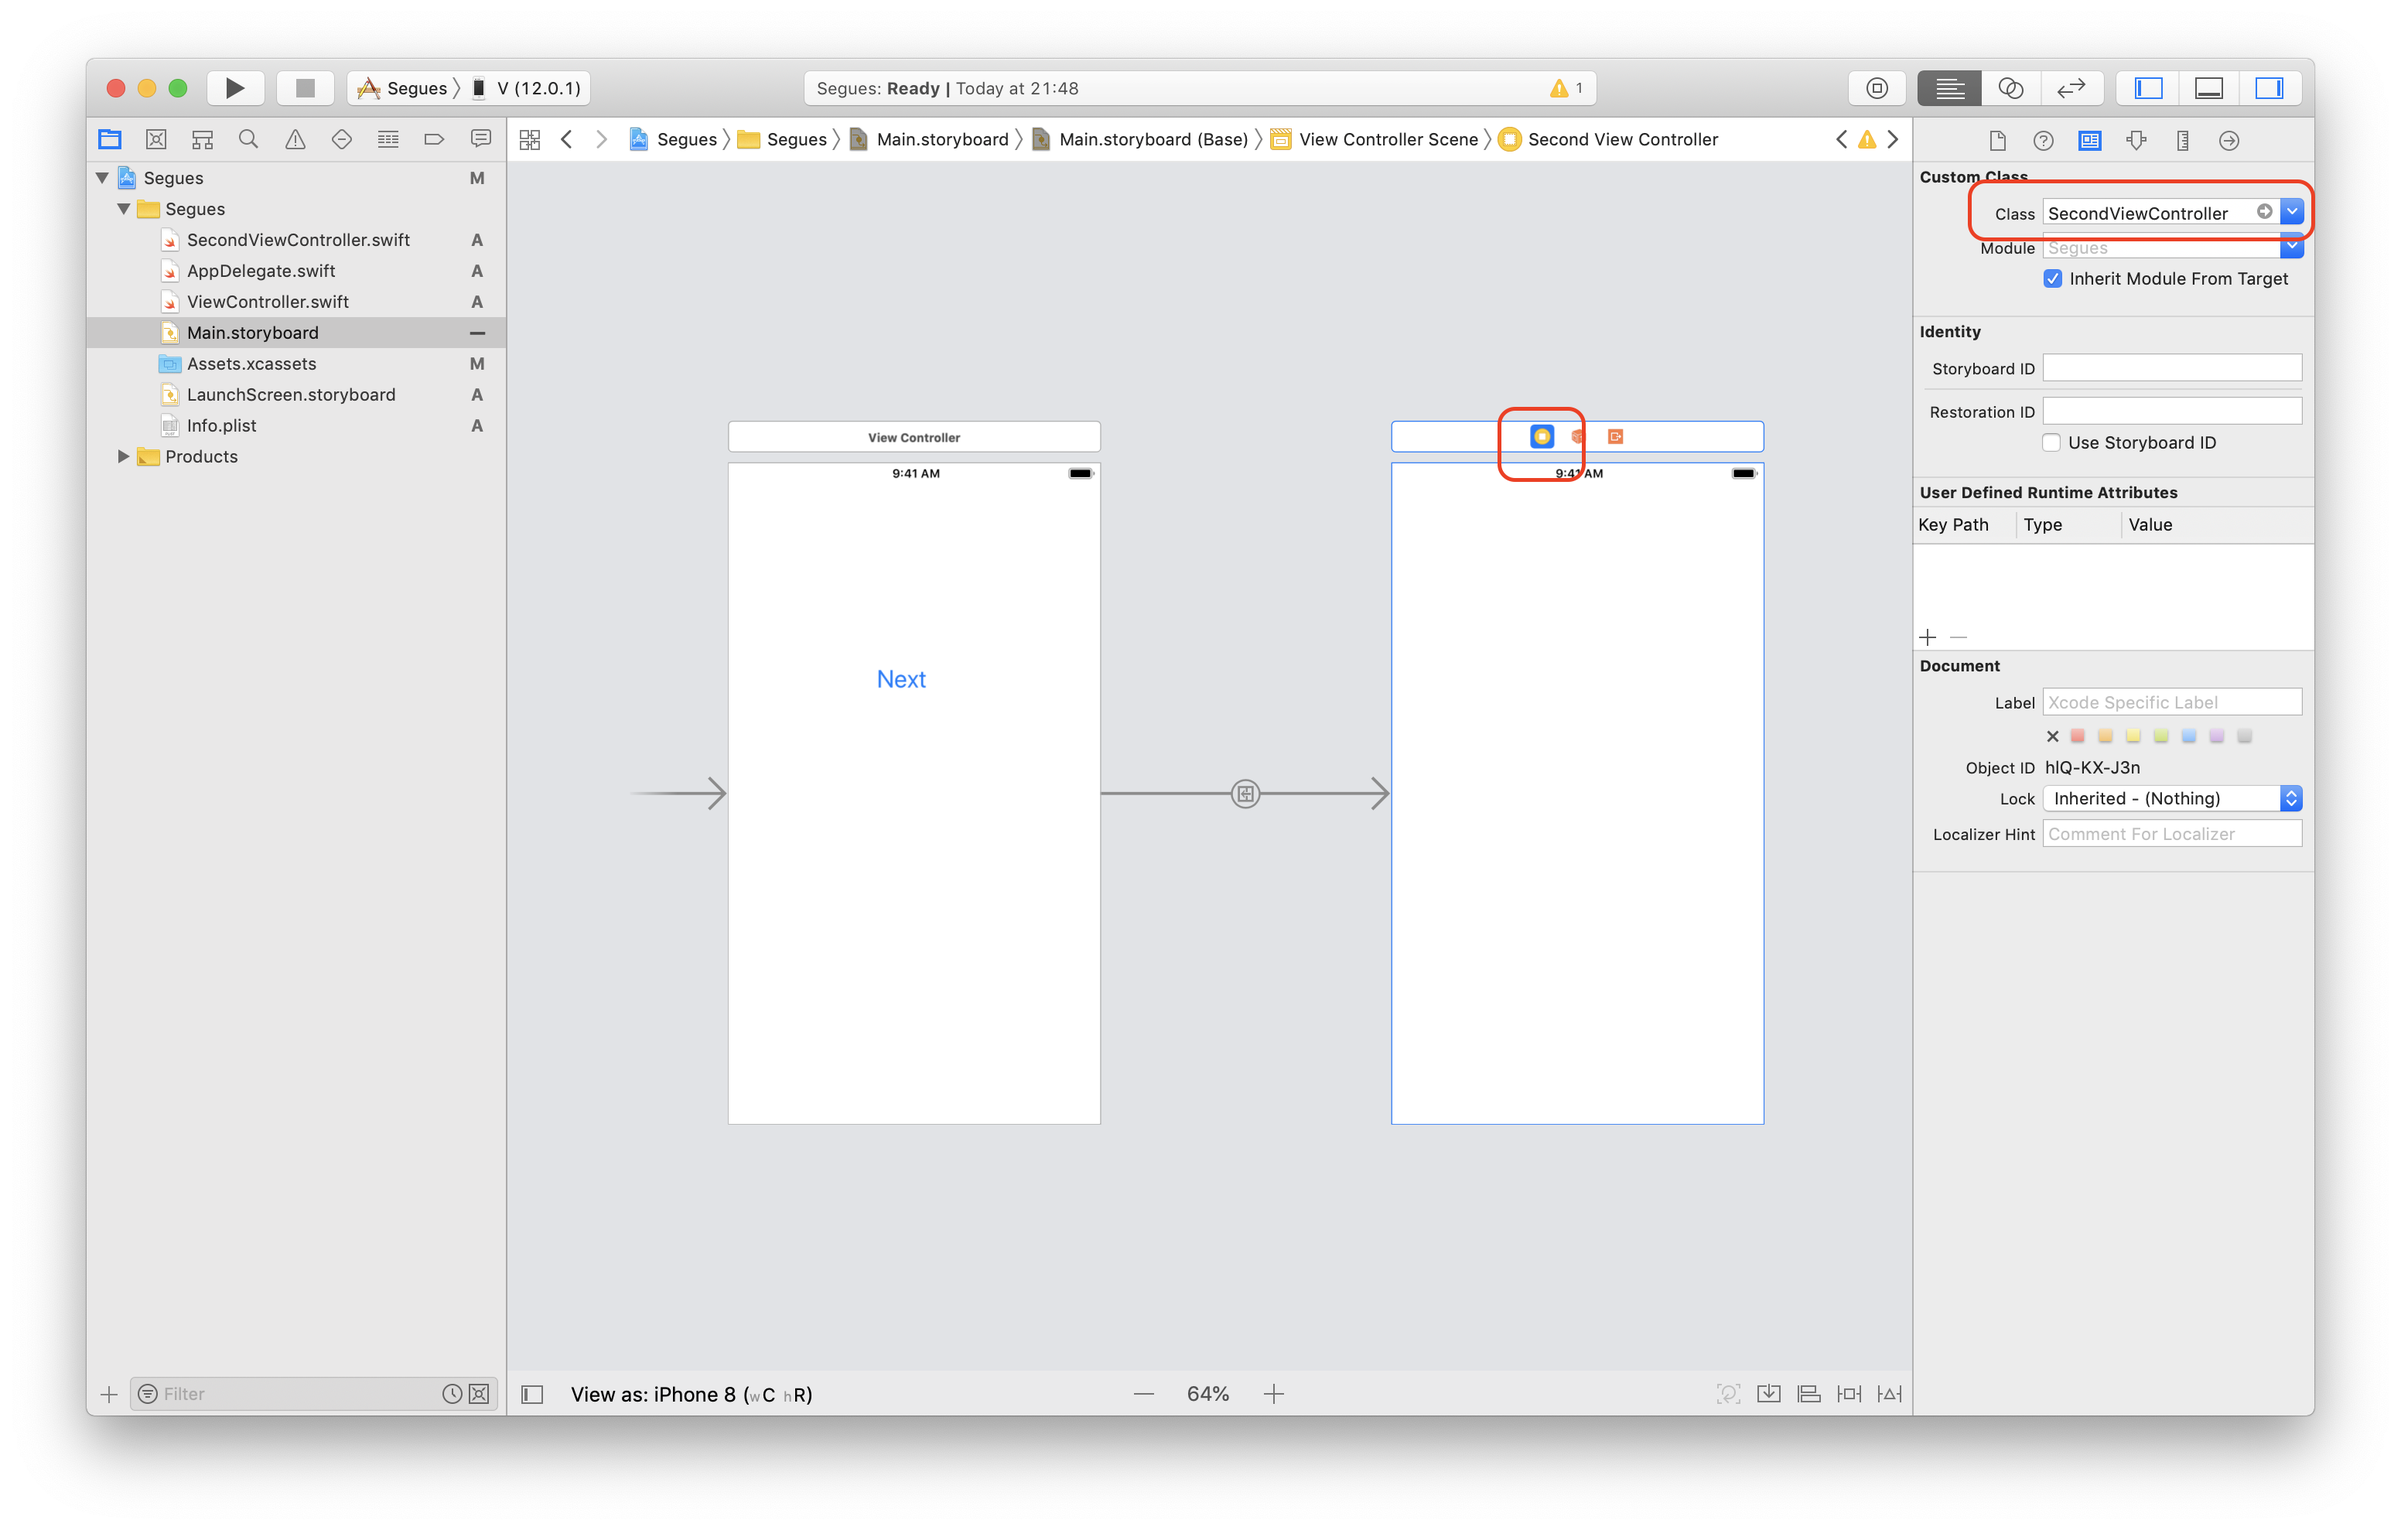
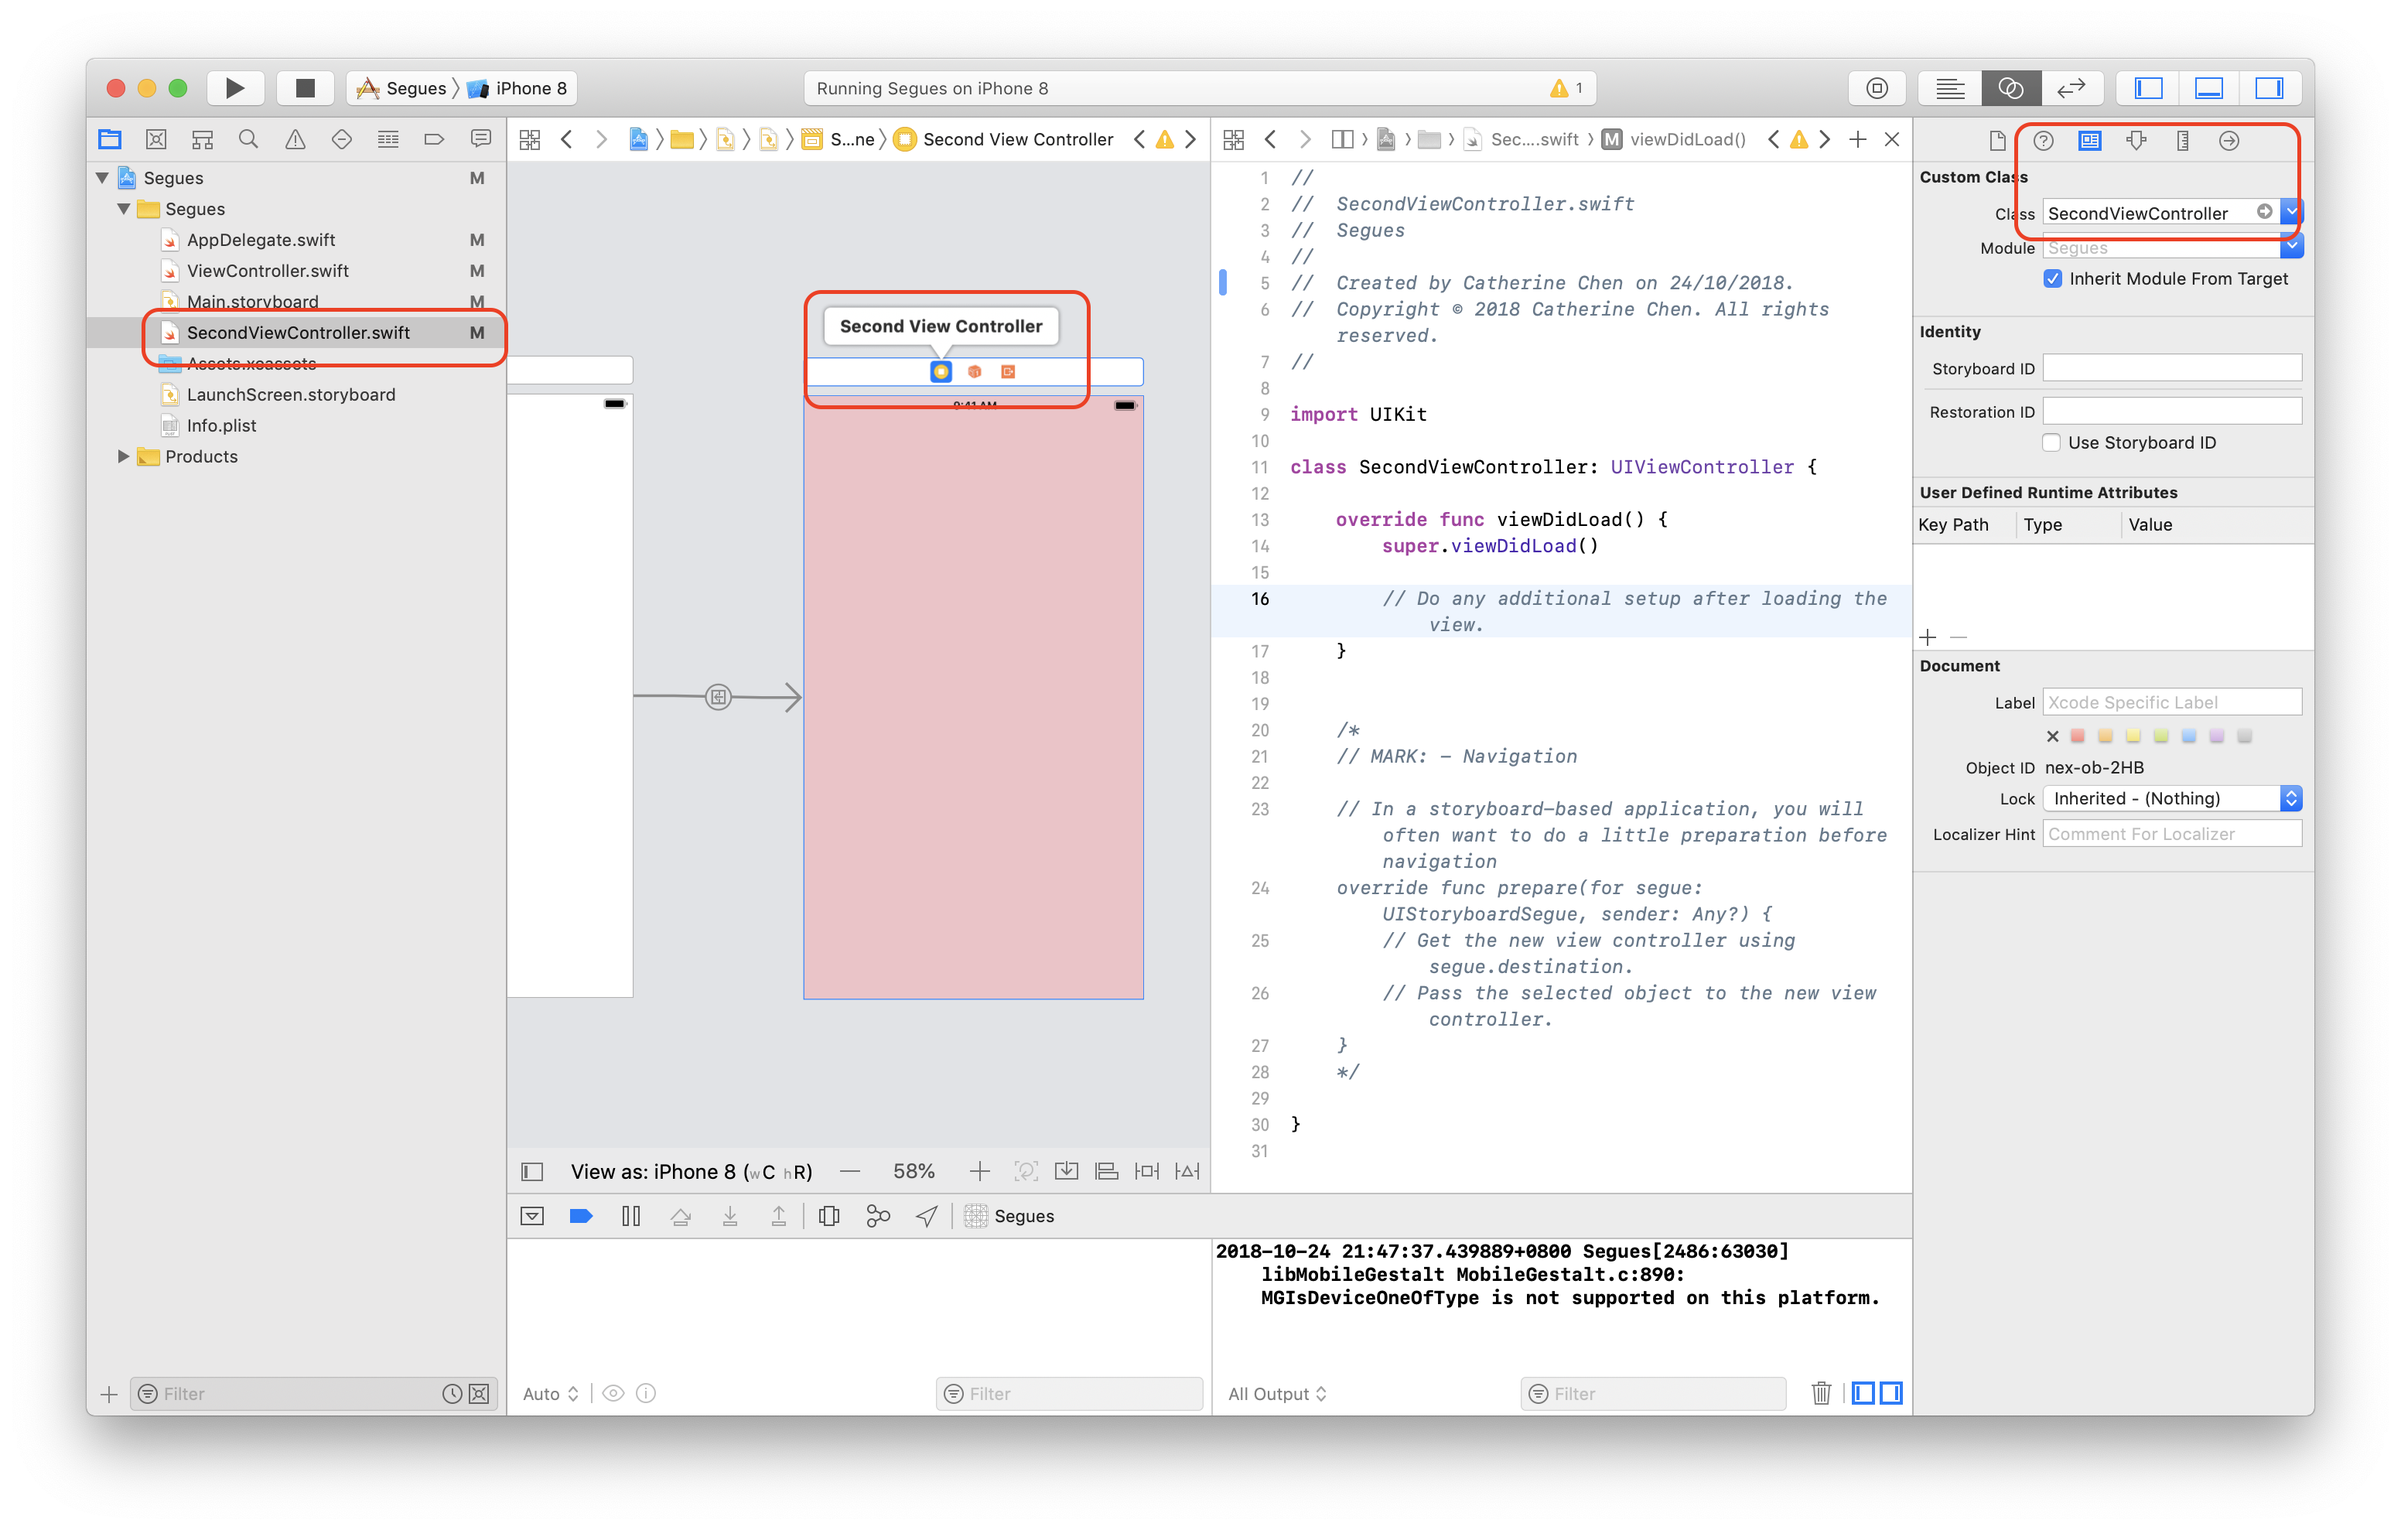
[iOS] finished Segues, updated Clima

diff --git a/Segues/Segues/ViewController.swift b/Segues/Segues/ViewController.swift
@@ -2,7 +2,7 @@
 //  ViewController.swift
 //  Segues
 //
-//  Created by Catherine Chen on 23/10/2018.
+//  Created by Catherine Chen on 24/10/2018.
 //  Copyright © 2018 Catherine Chen. All rights reserved.
 //
 
@@ -10,11 +10,22 @@ import UIKit
 
 class ViewController: UIViewController {
 
+    @IBOutlet weak var textField: UITextField!
     override func viewDidLoad() {
         super.viewDidLoad()
         // Do any additional setup after loading the view, typically from a nib.
     }
 
 
+    @IBAction func buttonPressed(_ sender: Any) {
+        performSegue(withIdentifier: "GoToSecondScreen", sender: self)
+    }
+    
+    override func prepare(for segue: UIStoryboardSegue, sender: Any?) {
+        if segue.identifier == "GoToSecondScreen" {
+            let destinationVC = segue.destination as! SecondViewController
+            destinationVC.textPassedOver = textField.text
+        }
+    }
 }
 

diff --git a/Clima-iOS12/Clima/ChangeCityViewController.swift b/Clima-iOS12/Clima/ChangeCityViewController.swift
@@ -26,16 +26,18 @@ class ChangeCityViewController: UIViewController {
     @IBAction func getWeatherPressed(_ sender: AnyObject) {
         
         
-        
         //1 Get the city name the user entered in the text field
-        
-        
-        //2 If we have a delegate set, call the method userEnteredANewCityName
-        
-        
-        //3 dismiss the Change City View Controller to go back to the WeatherViewController
-        
-        
+        if let city = changeCityTextField.text {
+            
+            
+            //2 If we have a delegate set, call the method userEnteredANewCityName
+            
+            
+            //3 dismiss the Change City View Controller to go back to the WeatherViewController
+            
+            
+            
+        }
     }
     
     

diff --git a/Segues/Segues/SecondViewController.swift b/Segues/Segues/SecondViewController.swift
@@ -2,7 +2,7 @@
 //  SecondViewController.swift
 //  Segues
 //
-//  Created by Catherine Chen on 23/10/2018.
+//  Created by Catherine Chen on 24/10/2018.
 //  Copyright © 2018 Catherine Chen. All rights reserved.
 //
 
@@ -10,10 +10,14 @@ import UIKit
 
 class SecondViewController: UIViewController {
 
+    var textPassedOver: String?
+    
+    @IBOutlet weak var label: UILabel!
     override func viewDidLoad() {
         super.viewDidLoad()
 
         // Do any additional setup after loading the view.
+        label.text = textPassedOver
     }
     
 

diff --git a/Clima-iOS12/Clima/WeatherViewController.swift b/Clima-iOS12/Clima/WeatherViewController.swift
@@ -16,6 +16,7 @@ class WeatherViewController: UIViewController, CLLocationManagerDelegate {
     
     //Constants
     let WEATHER_URL = "http://api.openweathermap.org/data/2.5/weather"
+    let WEATHER_URL_PARAM_BY_CITY = "%@?q=%@"
     let APP_ID = "943e6e87148c5b34bfd538139bd0cf4e"
     /***Get your own App ID at https://openweathermap.org/appid ****/
     

diff --git a/Segues/Segues/AppDelegate.swift b/Segues/Segues/AppDelegate.swift
@@ -2,7 +2,7 @@
 //  AppDelegate.swift
 //  Segues
 //
-//  Created by Catherine Chen on 23/10/2018.
+//  Created by Catherine Chen on 24/10/2018.
 //  Copyright © 2018 Catherine Chen. All rights reserved.
 //
 

diff --git a/README.md b/README.md
@@ -16,6 +16,7 @@ If we want to display beautiful, then we need to ensure that the resolution is h
 [See More](https://github.com/Catherine22/iOS-tutorial/blob/master/AutoLayout.md)
 
 # Segues
+
 For example, I'd like to click "next" button to navigate to another page. In this case, I need segues.    
 
 1. Create a UIViewController with a "next" button   
@@ -23,10 +24,26 @@ For example, I'd like to click "next" button to navigate to another page. In thi
 ![screenshot](https://raw.githubusercontent.com/Catherine22/iOS-tutorial/master/screenshots/segue.png)    
 3. Click ```⌃``` and the "next" button, drag to another UIViewController, select "show"    
 ![screenshot](https://raw.githubusercontent.com/Catherine22/iOS-tutorial/master/screenshots/segue1.png)   
-4. File - New - File to create a new Cocoa Touch Class, named "SecondViewController"    
+**Now when you click the Next button, it will jump to the second page**   
+
+4. In order to customise the second page, go to File - New - File to create a new Cocoa Touch Class, named "SecondViewController"    
 ![screenshot](https://raw.githubusercontent.com/Catherine22/iOS-tutorial/master/screenshots/segue2.png)   
-5. Lint the segue we just created to SecondViewController   
+5. Link the segue we just created to SecondViewController   
 ![screenshot](https://raw.githubusercontent.com/Catherine22/iOS-tutorial/master/screenshots/segue3.png)   
+
+## Another way to trigger segues
+
+1. Click ```⌃``` and the "View Controller" button, drag to another UIViewController, select "show"    
+![screenshot](https://raw.githubusercontent.com/Catherine22/iOS-tutorial/master/screenshots/segue4.png)   
+2. Set ```IBAction``` of the Next button, and jump to another segue by calling ```performSegue```, select the segue to name Identifier    
+
+```Swift
+@IBAction func buttonPressed(_ sender: Any) {
+  performSegue(withIdentifier: "GoToSecondScreen", sender: self)
+}
+```    
+Who initialised the segue will be the ```sender```, which in this case, will be the ```ViewController```.   
+(https://raw.githubusercontent.com/Catherine22/iOS-tutorial/master/screenshots/segue5.png)   
 
 # Create Classes and Objects from Scratch
 ![screenshot](https://raw.githubusercontent.com/Catherine22/iOS-tutorial/master/screenshots/scratch.png)
@@ -177,6 +194,8 @@ Once the ```LocationManager``` finds a location, it will send it out to the dele
 - [Stack View Practice](https://github.com/Catherine22/iOS-tutorial/tree/master/Stack%20View%20Practice), [Auto Layout Practice](https://github.com/Catherine22/iOS-tutorial/tree/master/Auto-Layout-Practice)   
   - AutoLayout    
   - Stack View    
+- [Segues](https://github.com/Catherine22/iOS-tutorial/tree/master/Segues)    
+  - Segue example   
 - [Clima](https://github.com/Catherine22/iOS-tutorial/tree/master/Clima-iOS12/Clima)    
   - Ask for permissions
   - Geo Location    
